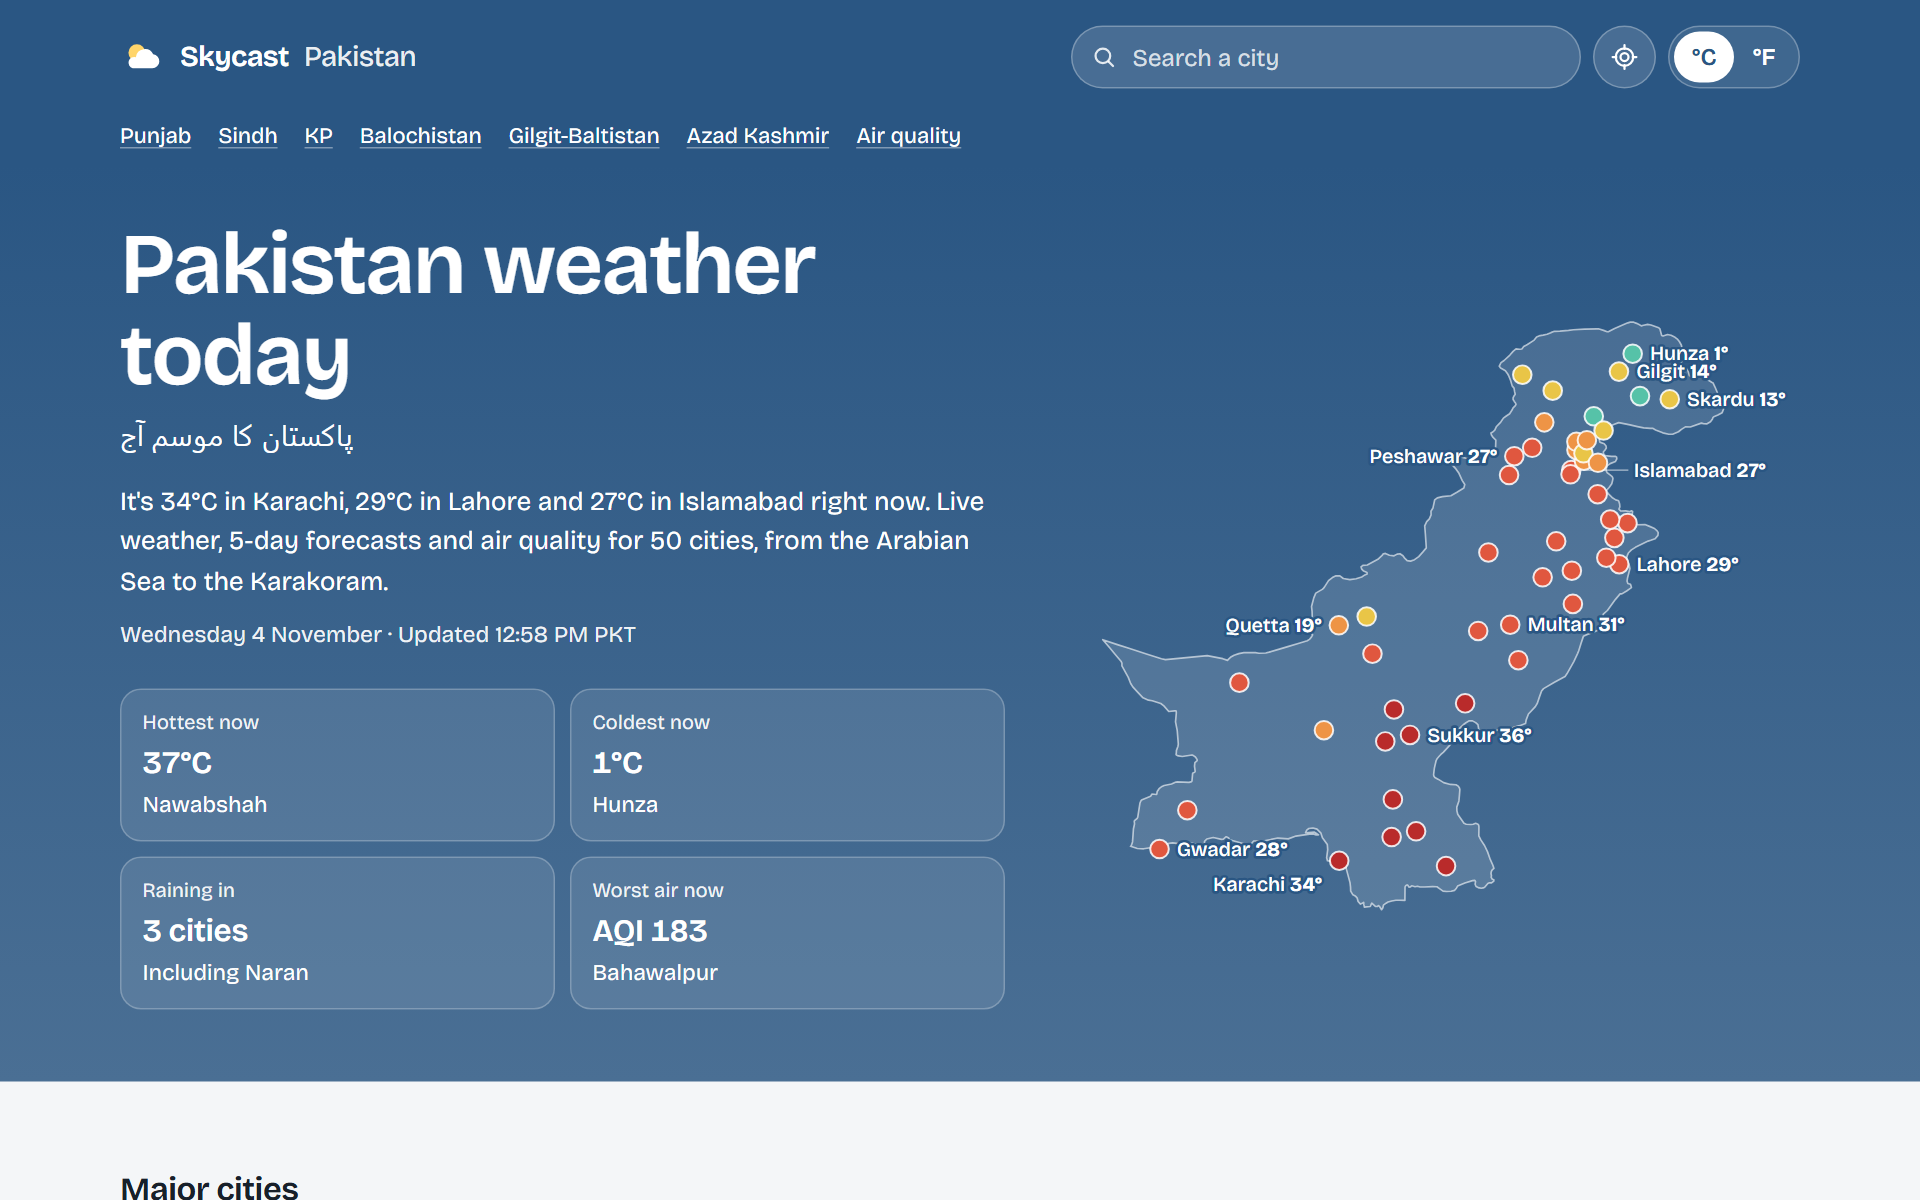
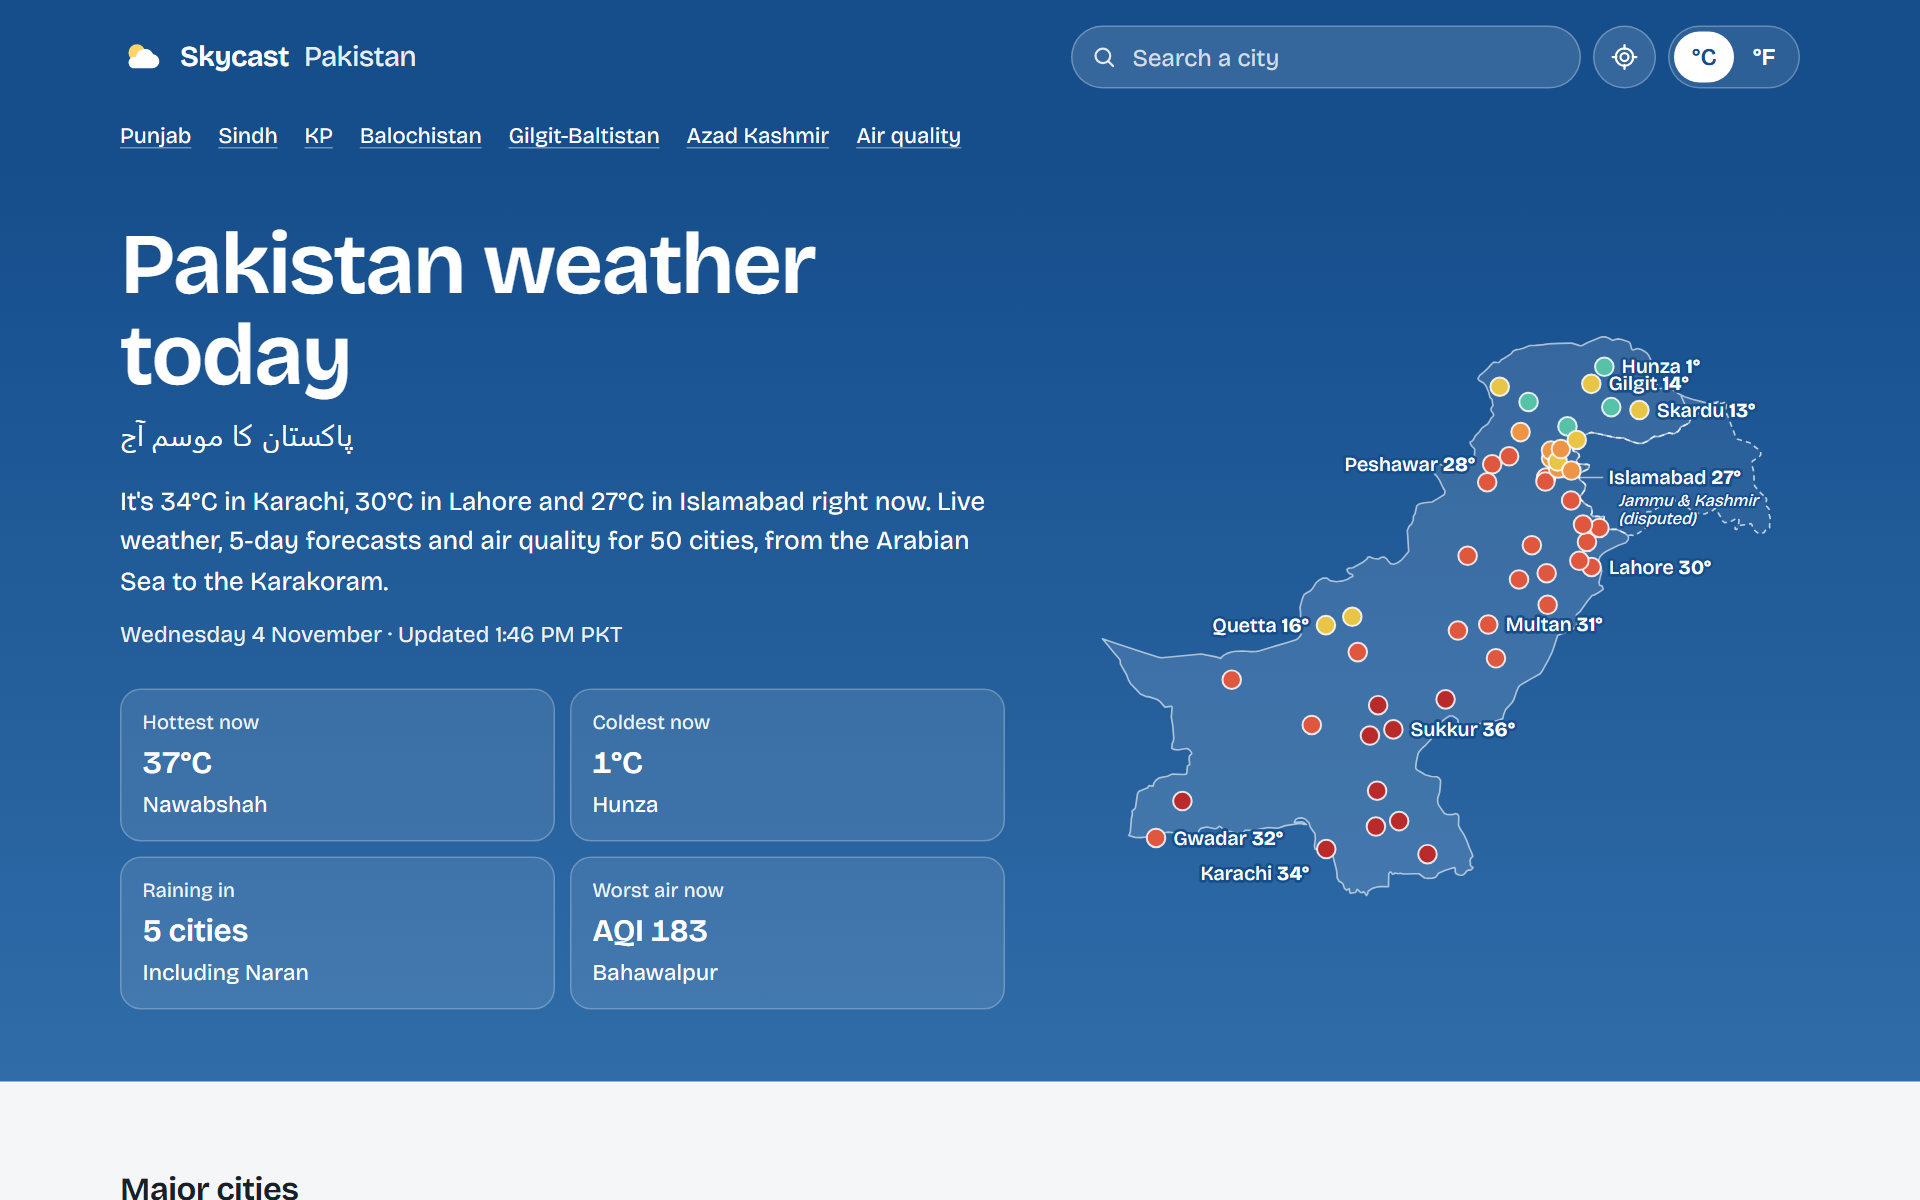
Follow Pakistan's official map for Jammu and Kashmir
Draw Jammu and Kashmir as a dashed area labelled disputed, and include
Siachen in the outline, as the official 2020 map does. Take every
boundary from one Natural Earth release so the edges line up, and
explain the treatment on the about page.

Changed region(s): [[0.0, 0.2467, 1.0, 0.925], [0.1875, 0.4008, 0.5, 0.4317], [0.25, 0.5242, 0.3438, 0.555]]

diff --git a/scripts/build-map.ts b/scripts/build-map.ts
@@ -1,6 +1,9 @@
 /**
- * Builds src/lib/data/pakistan-outline.json: the SVG path for the home page map.
- * Source: Natural Earth 1:50m (public domain), through the world-atlas package.
+ * Builds src/lib/data/pakistan-outline.json: the SVG paths for the home page map.
+ * Source: Natural Earth 1:50m (public domain).
+ *
+ * The map follows Pakistan's official political map of August 2020 for Jammu and Kashmir and
+ * Siachen: Siachen sits inside the outline, and Jammu and Kashmir is a separate disputed area.
  *
  * The output is committed, so the app needs no map library or boundary file.
  *   node scripts/build-map.ts
@@ -10,49 +13,39 @@ import { writeFileSync } from "node:fs";
 import { CITIES, distanceKm } from "../src/lib/cities.ts";
 import { mapX, mapY } from "../src/lib/map.ts";
 
-const SOURCE = "https://cdn.jsdelivr.net/npm/world-atlas@2.0.2/countries-50m.json";
+const SOURCE = "https://raw.githubusercontent.com/nvkelso/natural-earth-vector/v5.1.2/geojson";
 
 type Point = [number, number];
 
-interface Topology {
-  transform: { scale: Point; translate: Point };
-  arcs: Point[][];
-  objects: {
-    countries: {
-      geometries: { type: string; arcs: number[][] | number[][][]; properties: { name: string } }[];
-    };
-  };
+interface Feature {
+  properties: Record<string, string>;
+  geometry: { type: "Polygon"; coordinates: Point[][] } | { type: "MultiPolygon"; coordinates: Point[][][] };
 }
 
-const topology = (await (await fetch(SOURCE)).json()) as Topology;
-const { scale, translate } = topology.transform;
-
-/** TopoJSON stores each arc as offsets from the previous point. */
-const decoded = topology.arcs.map((arc) => {
-  let x = 0;
-  let y = 0;
-  return arc.map(([dx, dy]): Point => {
-    x += dx;
-    y += dy;
-    return [x * scale[0] + translate[0], y * scale[1] + translate[1]];
-  });
-});
-
-/** Joins arcs into a ring. A negative index means that arc runs backwards. */
-function ring(indices: number[]): Point[] {
-  const points: Point[] = [];
-  for (const index of indices) {
-    const arc = index >= 0 ? decoded[index] : [...decoded[~index]].reverse();
-    points.push(...(points.length ? arc.slice(1) : arc));
-  }
-  return points;
+async function features(file: string): Promise<Feature[]> {
+  const response = await fetch(`${SOURCE}/${file}`);
+  if (!response.ok) throw new Error(`${file}: ${response.status}`);
+  return ((await response.json()) as { features: Feature[] }).features;
 }
 
-const pakistan = topology.objects.countries.geometries.find((g) => g.properties.name === "Pakistan");
-if (!pakistan) throw new Error("Pakistan not found in the source data");
+/** The outer ring of each polygon in a feature. */
+function rings({ geometry }: Feature): Point[][] {
+  const polygons = geometry.type === "Polygon" ? [geometry.coordinates] : geometry.coordinates;
+  return polygons.map((polygon) => polygon[0]);
+}
 
-const polygons = (pakistan.type === "Polygon" ? [pakistan.arcs] : pakistan.arcs) as number[][][];
-const rings = polygons.map((polygon) => ring(polygon[0]));
+function find(list: Feature[], name: string, key: string): Feature {
+  const match = list.find((feature) => feature.properties[key] === name);
+  if (!match) throw new Error(`${name} not found`);
+  return match;
+}
+
+const countries = await features("ne_50m_admin_0_countries.geojson");
+const disputed = await features("ne_50m_admin_0_breakaway_disputed_areas.geojson");
+
+const pakistan = rings(find(countries, "Pakistan", "ADMIN"));
+const siachen = rings(find(disputed, "Siachen Glacier", "BRK_NAME"));
+const kashmir = rings(find(disputed, "Jammu and Kashmir", "BRK_NAME"));
 
 const inside = ([lon, lat]: Point, points: Point[]) => {
   let result = false;
@@ -65,20 +58,21 @@ const inside = ([lon, lat]: Point, points: Point[]) => {
 };
 
 // Every city should sit inside the outline, or within a few km of the coast or border.
-const all = rings.flat();
 for (const city of CITIES) {
-  if (rings.some((points) => inside([city.lon, city.lat], points))) continue;
-  const km = Math.min(...all.map(([lon, lat]) => distanceKm(city, { lat, lon })));
+  if (pakistan.some((points) => inside([city.lon, city.lat], points))) continue;
+  const km = Math.min(...pakistan.flat().map(([lon, lat]) => distanceKm(city, { lat, lon })));
   console.log(`outside: ${city.slug}, ${km.toFixed(1)} km from the outline`);
 }
 
 const number = (value: number) => value.toFixed(1).replace(/\.0$/, "");
-const path = rings
-  .map((points) => `M${points.map(([lon, lat]) => `${number(mapX(lon))} ${number(mapY(lat))}`).join("L")}Z`)
-  .join("");
+const toPath = (list: Point[][]) =>
+  list.map((points) => `M${points.map(([lon, lat]) => `${number(mapX(lon))} ${number(mapY(lat))}`).join("L")}Z`).join("");
 
-writeFileSync("src/lib/data/pakistan-outline.json", `${JSON.stringify({ path })}\n`);
+const output = { path: toPath([...pakistan, ...siachen]), disputed: toPath(kashmir) };
+writeFileSync("src/lib/data/pakistan-outline.json", `${JSON.stringify(output)}\n`);
+
+const all = [...pakistan, ...siachen, ...kashmir].flat();
 const lons = all.map(([lon]) => lon);
 const lats = all.map(([, lat]) => lat);
-console.log(`rings ${rings.length}, points ${all.length}, path ${path.length} bytes`);
+console.log(`paths ${output.path.length} + ${output.disputed.length} bytes`);
 console.log(`lon ${Math.min(...lons).toFixed(2)} to ${Math.max(...lons).toFixed(2)}, lat ${Math.min(...lats).toFixed(2)} to ${Math.max(...lats).toFixed(2)}`);

diff --git a/src/components/PakistanMap.tsx b/src/components/PakistanMap.tsx
@@ -31,7 +31,8 @@ const LABELS: Record<string, Label> = {
 
 /**
  * Pakistan, with every city as a dot at its real position, coloured by its temperature.
- * The outline is a single SVG path built by scripts/build-map.ts, so there's no map library.
+ * Jammu and Kashmir is drawn as disputed territory, as on Pakistan's official map.
+ * The outlines are SVG paths built by scripts/build-map.ts, so there's no map library.
  */
 export function PakistanMap({ nation, units }: { nation: CityNow[]; units: Units }) {
   const labelled = nation.filter(({ city }) => LABELS[city.slug]);
@@ -42,7 +43,14 @@ export function PakistanMap({ nation, units }: { nation: CityNow[]; units: Units
       role="img"
       aria-label={`Map of the temperature right now in ${nation.length} cities across Pakistan`}
     >
+      <path d={outline.disputed} className="pk-disputed" />
       <path d={outline.path} className="pk-outline" />
+      <text x={x(75.05)} y={y(33.02)} className="pk-region">
+        Jammu &amp; Kashmir
+        <tspan x={x(75.05)} dy="14">
+          (disputed)
+        </tspan>
+      </text>
       {labelled.map(({ city }) => {
         const { leader } = LABELS[city.slug];
         if (!leader) return null;

diff --git a/src/app/about/page.tsx b/src/app/about/page.tsx
@@ -89,8 +89,9 @@ export default async function AboutPage() {
             beside high ground, because the model overstates them.
           </p>
           <p className="prose">
-            The map on the home page uses a Natural Earth outline. It&apos;s simplified to show where cities are, and
-            isn&apos;t an authority on borders.
+            The map on the home page follows Pakistan&apos;s official political map, which shows Jammu and Kashmir as
+            disputed territory, with its final status to be decided under the relevant UN Security Council resolutions.
+            The outline is drawn from Natural Earth data and simplified to show where cities are.
           </p>
         </section>
 

diff --git a/e2e/weather.spec.ts b/e2e/weather.spec.ts
@@ -32,6 +32,8 @@ test.describe("weather", () => {
     await expect(page.getByText("Worst air now")).toBeVisible();
     await expect(page.getByRole("img", { name: /temperature right now in 50 cities/ })).toBeVisible();
     await expect(page.locator(".pk-outline")).toHaveCount(1);
+    await expect(page.locator(".pk-disputed")).toHaveCount(1);
+    await expect(page.locator(".pk-region")).toContainText("Jammu & Kashmir");
     await expect(page.locator(".pk-dot")).toHaveCount(50);
     // Every city is one click from the home page, so crawlers can reach them all.
     await expect(page.locator(".province-card li a")).toHaveCount(50);

diff --git a/src/app/globals.css b/src/app/globals.css
@@ -1189,6 +1189,24 @@ main:focus {
   stroke-linejoin: round;
 }
 
+.pk-disputed {
+  fill: rgb(255 255 255 / 6%);
+  stroke: rgb(255 255 255 / 70%);
+  stroke-width: 1.25;
+  stroke-dasharray: 4 3;
+  stroke-linejoin: round;
+}
+
+.pk-region {
+  fill: #fff;
+  font-size: 12.5px;
+  font-style: italic;
+  stroke: var(--sky-top);
+  stroke-width: 3px;
+  stroke-linejoin: round;
+  paint-order: stroke;
+}
+
 .pk-dot {
   stroke: rgb(255 255 255 / 85%);
   stroke-width: 1.5;

diff --git a/src/lib/map.ts b/src/lib/map.ts
@@ -1,9 +1,9 @@
 /** The home page map's drawing area. Shared with the script that builds the outline, so they line up. */
 export const MAP_WIDTH = 520;
-export const MAP_HEIGHT = 450;
+export const MAP_HEIGHT = 428;
 
 const WEST = 60.6;
-const EAST = 78.6; // Past the last city, to leave room for its label.
+const EAST = 79.6; // Past Jammu and Kashmir's eastern edge.
 const NORTH = 37.2;
 const SOUTH = 23.7;
 

diff --git a/README.md b/README.md
@@ -87,7 +87,7 @@ scripts/build-climate.ts ──▶ Open-Meteo ──▶ src/lib/data/climate.jso
 
 **A canonical URL bug you can't see.** Vercel's `VERCEL_PROJECT_PRODUCTION_URL` resolved to an auto-generated alias that returned 404, so every canonical link and the sitemap told Google the real pages lived at a dead address. Everything looked fine in a browser. The domain is now set explicitly, and tests pin it.
 
-**A map without a map library.** A script turns Natural Earth's outline of Pakistan into one SVG path, about 6 KB, and checks all 50 cities against it. Each city is then a dot at its real coordinates, coloured by temperature, so the page loads no mapping code or tiles.
+**A map without a map library.** A script turns Natural Earth's boundaries into two SVG paths and checks all 50 cities against them. Each city is then a dot at its real coordinates, coloured by temperature, so the page loads no mapping code or tiles. Jammu and Kashmir is drawn as disputed territory, following Pakistan's official map.
 
 **A strict CSP has a cost.** Nonces need every page to render per request, because a prerendered page can't carry one. Two new pages were silently prerendered, which would have blocked all their scripts in production, so there's now a test that checks the nonce on every page type. Weather pages are dynamic anyway, and the data behind them is cached, so the trade is cheap here.
 
